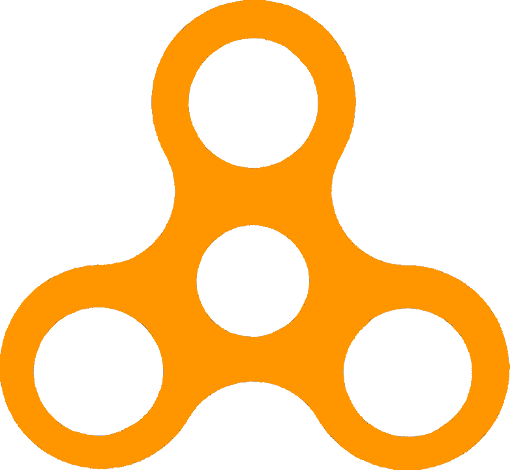
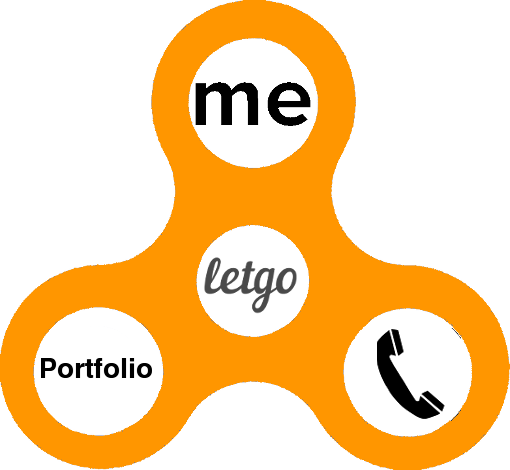
adaptive prototype

diff --git a/public_html/index.html b/public_html/index.html
@@ -12,7 +12,7 @@
         <link href="https://fonts.googleapis.com/css?family=Patrick+Hand+SC" rel="stylesheet">
     </head>
     <body>
-        <div class="container">
+        <div class="container-fluid">
         <header>
             <nav class="navbar navbar-default navbar-fixed-top" id="menu">
                 
@@ -24,7 +24,7 @@
                       <span class="icon-bar"></span>
                       <span class="icon-bar"></span>
                     </button>
-                      <img src="img/freeCodeCamp-alternative.png" alt="freeCodeCamp project" class="img-responsive nav-logo">
+                      <a href="#general"><img src="img/freeCodeCamp-alternative.png" alt="freeCodeCamp project" class="img-responsive nav-logo"></a>
                   </div>
                   <h1 class="navbar-text main_name">My portfolio</h1>
                   <!-- Collect the nav links, forms, and other content for toggling -->
@@ -37,16 +37,22 @@
                   </div><!-- /.navbar-collapse -->
               </nav>
         </header>
-        <div class="general img-responsive">
-            <img src="img/general.png" alt="general image">
+            <div class="general" id="general">
+                <img class="main_theme" src="img/general.png" alt="general image" usemap="#Map">
+            <map name="Map" id="Map">
+            <area alt="" title="" href="#aboutme" shape="poly" coords="252,38,264,38,275,43,285,48,293,53,302,62,308,69,313,80,316,90,318,103,317,114,312,127,306,139,299,147,291,155,277,163,257,168,241,167,228,162,216,156,204,144,194,126,188,106,189,91,191,82,197,69,204,59,214,51,230,42" />
+            <area alt="" title="" href="#aboutme" shape="poly" coords="251,224,264,226,275,229,287,237,296,247,304,257,308,272,307,291,302,306,294,318,285,326,275,331,262,336,245,336,232,333,221,327,213,321,206,312,199,299,195,283,196,272,200,258,208,246,216,238,230,229" />
+            <area alt="" title="" href="#portfolio" shape="poly" coords="103,307,114,310,121,312,131,316,140,322,147,330,154,339,158,347,161,355,163,363,163,372,162,385,157,396,151,407,143,416,135,422,122,429,109,434,90,435,77,433,66,426,56,421,49,411,41,400,35,389,34,381,33,368,34,356,41,340,51,327,61,317,75,311" />    
+            <area alt="" title="" href="#contactme" shape="poly" coords="458,333,465,344,469,354,472,367,471,385,465,402,457,413,448,421,437,430,430,432,415,436,395,435,381,430,372,424,362,416,357,411,351,401,348,393,344,378,345,370,347,354,351,343,356,333,366,323,377,315,386,312,397,309,417,309,428,311,445,319" />
+            </map>
         </div>
             <!--Div about me-->
             <div id="aboutme" class="row">
                 <h2 class="text-center">About me</h2>
-                <div class="col-md-3">
+                <div class="col-md-3 col-sm-12 col-xs-12">
                     <img src="img/user.png" alt="Sulimov Dmitry" class="img-circle avatar">
                  </div>
-                <div class="col-md-9 information">
+                <div class="col-md-9 col-sm-12 col-xs-12 information">
                     <ul class="list-unstyled">
                         <li>Name: <span class="answer">Dmitry  Sulimov</span></li>
                         <li>Age <span class="answer">19 y.o.</span></li>
@@ -56,9 +62,9 @@
                             <p class="answer"><span>2016 - ... </span>Donetsk National University <span class="sert">as Developer.</span></p>
                         </li>
                         <li>Achievements:
-                            <p class="answer"><span>2015 - Cisco network academy<span class="sert"> CCENT;</span></p>
-                            <p class="answer"><span>2014 - WEB_VNTU<span class="sert"> Best Flash Animation (3rd place);</span></p>
-                            <p class="answer"><span>2017 - FreeCodeCamp<span class="sert"> FrontEnd dev certificate./p>
+                            <p class="answer">2015 - Cisco network academy<span class="sert"> CCENT;</span></p>
+                            <p class="answer">2014 - WEB_VNTU<span class="sert"> Best Flash Animation (3rd place);</span></p>
+                            <p class="answer">2017 - FreeCodeCamp<span class="sert"> FrontEnd dev certificate.</span></p>
                         </li>
                         <li>Languages:
                             <p class="answer">Ukrainiane<span class="sert"> Native speaker;</span></p>
@@ -83,19 +89,19 @@
             </div>
             <div class="row" id="portfolio">
                 <h2>My portfolio</h2>
-                <div class="col-md-4">
+                <div class="col-md-4 col-sm-12 col-xs-12">
                     <div class="text-center">
                         <a href="http://ladiaservice.zzz.com.ua/" target="_blank"><img class="images" src="img/Joomla.png" alt="joomla image"></a>
                     </div>
                     <p class="text-center">Site on CMS Joomla</p>
                 </div>
-                <div class="col-md-4">
+                <div class="col-md-4 col-sm-12 col-xs-12">
                     <div class="text-center">
                         <a  href="#" target="_blank"><img class="images" src="img/web_development.jpg" alt="web image"></a>
                     </div>
                     <p class="text-center">My web works</p>
                 </div>
-                <div class="col-md-4">
+                <div class="col-md-4 col-sm-12 col-xs-12">
                     <div class="text-center">
                         <a href="https://github.com/DmitrySulimov/Course-work-3KH-A2/tree/master/ImageSearch" target="_blank"><img class="images" src="img/software_development.png" alt="software image"></a>
                     </div>
@@ -104,17 +110,17 @@
             </div>
             <div class="row" id="contactme">
                 <h2>Fill the form</h2>
-                <div class="col-md-6 input_form">
+                <div class="col-md-6 col-sm-6 col-xs-12 input_form">
                     <h3 class="text-center">Fill form</h3>
                     <form>
                         <label class="option">Name:</label><input type="text" value="enter your name">
                         <br><label  for="phone" class="option">Phone:</label><input type="tel" placeholder="(XXX) XXX XX XX" name="phone" id="phone">
                         <br><label class="option">What do you want?</label><input type="text" value="your offer">
-                        <br><label class="option" for="email">Email: </label><input name="email" type="email" placeholder="user@gmail.com">
+                        <br><label class="option" for="email">Email: </label><input id="email" name="email" type="email" placeholder="user@gmail.com">
                         <br><button class="btn" id="sendbut" type="submit" formmethod="get" formaction="#">Send</button>
                     </form>
                 </div>
-                <div class="col-md-6 contact_information">
+                <div class="col-md-6 col-sm-6 col-xs-12 contact_information">
                     <h2>Or contact me</h2>
                     <p><i class="fa fa-telegram con_me" aria-hidden="true"></i>  <span class="value">0632791303</span></p>
                     <p><i class="fa fa-instagram con_me" aria-hidden="true"></i>  <span class="value">juventini_dmitry</span></p>
@@ -123,10 +129,10 @@
             </div>
             <footer>
                 <div class="row">
-                    <div class="col-md-8 copyrigth">
+                    <div class="col-md-8 col-sm-8 col-xs-6">
                         &copy; Sulimov Dmitry
                     </div>
-                    <div class="col-md-4">
+                    <div class="col-md-4 col-sm-4 col-xs-6 icons">
                         <ul class="list-inline list-unstyled">
                             <li><a href="https://github.com/DmitrySulimov" target="_blank"><i class="icon fa fa-git"></i></a></li>
                             <li><a href="https://www.freecodecamp.com/dmitrysulimov" target="_blank"><i class="icon fa fa-free-code-camp"></i></a></li>
@@ -136,6 +142,6 @@
                     </div>
                 </div>
             </footer>
-     </div><!-- /.container -->
+        </div><!-- /.container -->
     </body>
 </html>

diff --git a/public_html/js/animatedscroll.js b/public_html/js/animatedscroll.js
@@ -17,5 +17,18 @@ $(document).ready(function(){
 		//анимируем переход на расстояние - top за 1500 мс
 		$('body,html').animate({scrollTop: top}, 1500);
 	});
+        	$("#Map").on("click","area", function (event) {
+		//отменяем стандартную обработку нажатия по ссылке
+		event.preventDefault();
+
+		//забираем идентификатор бока с атрибута href
+		var id  = $(this).attr('href'),
+
+		//узнаем высоту от начала страницы до блока на который ссылается якорь
+			top = $(id).offset().top;
+		
+		//анимируем переход на расстояние - top за 1500 мс
+		$('body,html').animate({scrollTop: top}, 1500);
+	});
 });
 

diff --git a/public_html/css/ourstiles.css b/public_html/css/ourstiles.css
@@ -69,5 +69,24 @@ ul > li{
     color: orange;
 }
 .icon{
-    color: orange;
+    color: black;
 }
+.icons{
+    text-align: right;
+}
+footer{
+    border-top: 1px #000 solid;
+    padding-top: 10px;
+    }
+
+/*@media(max-device-width:568px){
+    .main_theme{
+        height: 400px;
+        width: 360px;
+    }
+}
+@media(max-device-width:800px){
+    .main_theme{
+        size: 600px;
+    }*/
+/*}*/
